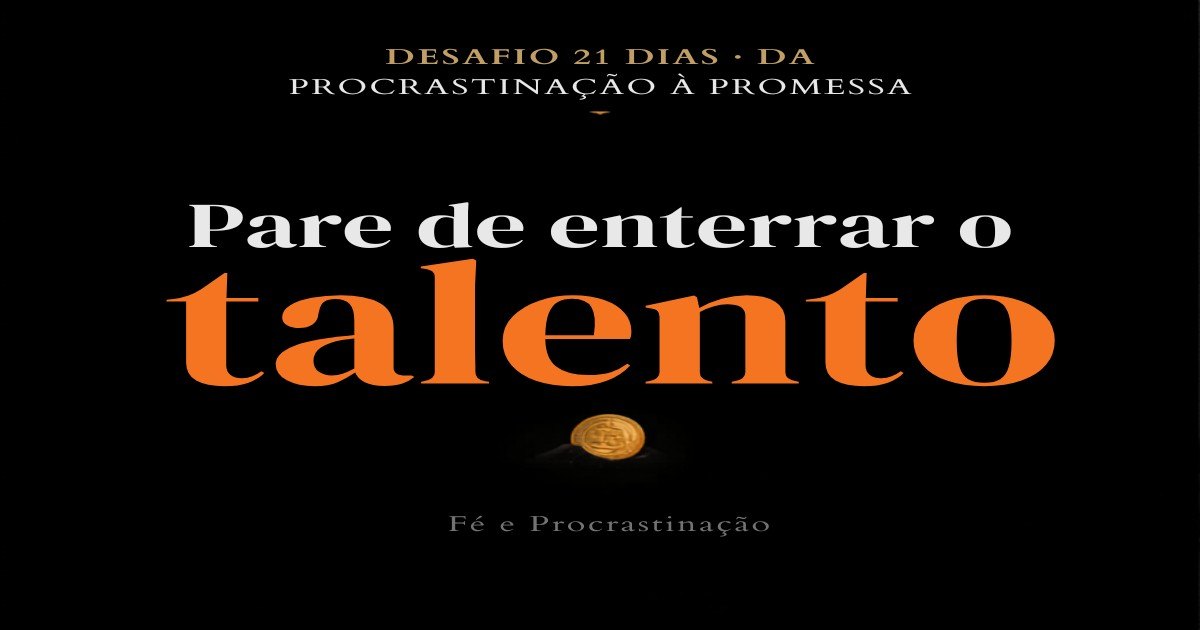
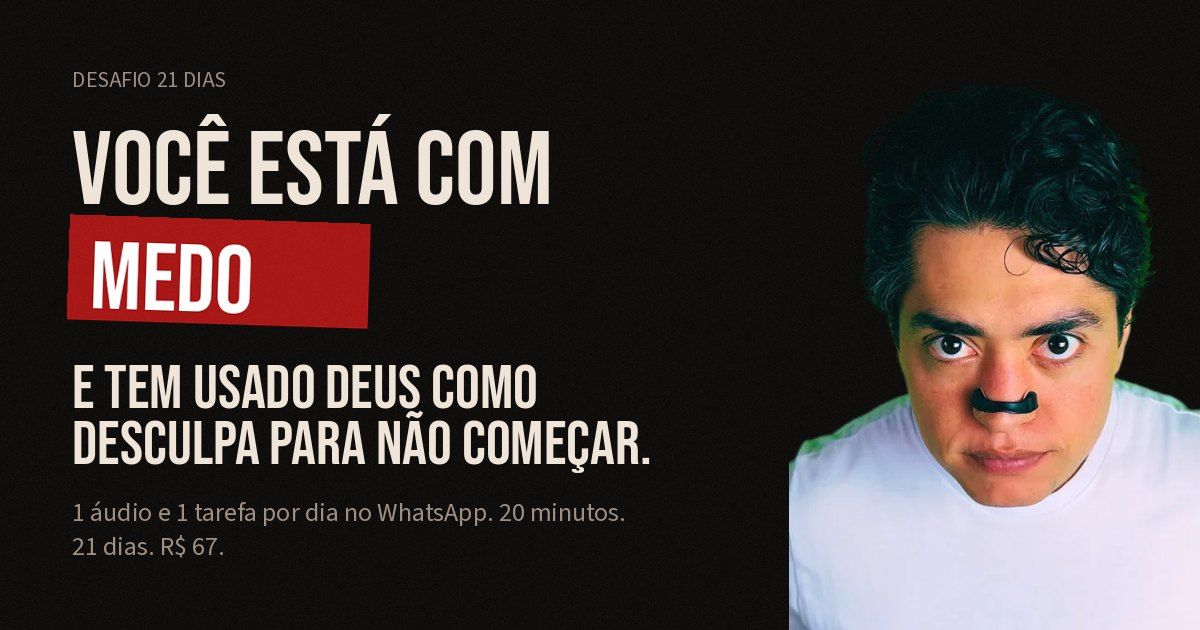
Assets, OG e modal: fecha as pendencias abertas
Alvo de deploy passa a ser v7 (escolha do Ewertton, pra casar com os 7 dias
de garantia). O .cpanel.yml e as tres URLs de OG acompanham.

Assets
- ewertton.webp substitui ewertton-preto.jpg: recorte 3:4 com alpha, 480x640,
  2 MB -> 33 KB. Some o fundo branco E o fundo vermelho da variante JPG, o que
  libera o canto reto da §6.2; o container vira 3:4, entao object-fit nao corta
- og-image.jpg refeita na identidade dark, com as fontes reais do site
  (Bebas Neue + Source Sans 3), grao 4,5% e carimbo --blood em "MEDO"

Corrige og:url, og:image e twitter:image, que estavam fixas em /v4/. Sem isso
o compartilhamento do v7 puxaria a arte da pasta do v4 e apontaria a URL
canonica pra versao errada, envenenando o teste A/B.

Modal
- consentimento LGPD: checkbox obrigatorio, unico gate do botao de submit.
  Erro de FORMATO continua explicando no clique em vez de travar: o checkbox e
  regra visivel logo acima do botao, "e-mail precisa de TLD" nao e
- focus trap: o Tab circulava pros links da pagina atras do veu. Fecha o ciclo
  e devolve o foco pro botao que abriu o modal
- botao desabilitado ganha opacidade e cursor de bloqueado

Limpeza
- remove CSS morto: .btn--invert e .mural-counter (zero elementos no HTML)
- card de bonus volta pra grade: o <svg> era filho do bloco de texto e ficava
  empilhado a 36px; agora e filho direto a 44px, igual aos outros quatro

Verificado no browser: trava/destrava/retrava, erros de formato aparecem, foco
circula e retorna, zero erro de console.

diff --git a/index.html b/index.html
@@ -17,13 +17,13 @@
   <meta property="og:title" content="Desafio 21 Dias: Da Procrastinação à Promessa">
   <meta property="og:description" content="1 áudio e 1 tarefa por dia no WhatsApp. 20 minutos. 21 dias. R$ 67.">
   <meta property="og:type" content="website">
-  <meta property="og:url" content="https://ebravoholding.com/pages/desafios/v4/">
-  <meta property="og:image" content="https://ebravoholding.com/pages/desafios/v4/og-image.jpg">
+  <meta property="og:url" content="https://ebravoholding.com/pages/desafios/v7/">
+  <meta property="og:image" content="https://ebravoholding.com/pages/desafios/v7/og-image.jpg">
   <meta property="og:image:width" content="1200">
   <meta property="og:image:height" content="630">
-  <meta property="og:image:alt" content="Desafio 21 Dias: Da Procrastinação à Promessa">
+  <meta property="og:image:alt" content="Você está com medo e tem usado Deus como desculpa para não começar. Desafio 21 Dias.">
   <meta name="twitter:card" content="summary_large_image">
-  <meta name="twitter:image" content="https://ebravoholding.com/pages/desafios/v4/og-image.jpg">
+  <meta name="twitter:image" content="https://ebravoholding.com/pages/desafios/v7/og-image.jpg">
   <!-- Favicon -->
   <link rel="icon" type="image/x-icon" href="favicon/favicon.ico">
   <link rel="icon" type="image/svg+xml" href="favicon/favicon.svg">
@@ -1105,16 +1105,15 @@
         </div>
 
         <div class="entregavel-card fade-up" style="transition-delay:0.25s">
+          <svg class="entregavel-icon" viewBox="0 0 44 44" fill="none" aria-hidden="true">
+            <circle cx="22" cy="22" r="22" style="fill:rgba(166,19,18,0.25)" />
+            <path d="M22 12c-1.66 0-3 1.34-3 3s1.34 3 3 3 3-1.34 3-3-1.34-3-3-3z"
+              style="stroke:var(--color-accent-tx)" stroke-width="2" />
+            <path d="M22 20c-4.42 0-8 1.79-8 4v2h16v-2c0-2.21-3.58-4-8-4z" style="stroke:var(--color-accent-tx)"
+              stroke-width="2" stroke-linecap="round" stroke-linejoin="round" />
+          </svg>
           <div>
-            <svg class="entregavel-icon" viewBox="0 0 44 44" fill="none" aria-hidden="true"
-              style="width:36px;height:36px;margin-bottom:0.5rem">
-              <circle cx="22" cy="22" r="22" style="fill:rgba(166,19,18,0.25)" />
-              <path d="M22 12c-1.66 0-3 1.34-3 3s1.34 3 3 3 3-1.34 3-3-1.34-3-3-3z"
-                style="stroke:var(--color-accent-tx)" stroke-width="2" />
-              <path d="M22 20c-4.42 0-8 1.79-8 4v2h16v-2c0-2.21-3.58-4-8-4z" style="stroke:var(--color-accent-tx)"
-                stroke-width="2" stroke-linecap="round" stroke-linejoin="round" />
-            </svg>
-            <!-- Selo movido pra dentro do bloco de texto: como filho direto do .entregavel-card
+            <!-- Selo dentro do bloco de texto: como filho direto do .entregavel-card
                  (display:flex) ele virava item de flex ao lado do ícone e quebrava em 3 linhas.
                  O CSS do .bonus-tag (inline-block + margin-bottom) já era escrito pra este lugar. -->
             <span class="bonus-tag">Bônus &middot; R$ 497</span>
@@ -1326,7 +1325,7 @@
       <div class="ewertton-inner">
         <div class="fade-up">
           <div class="ewertton-photo">
-            <img src="ewertton-preto.jpg" alt="Foto de Ewertton Bravo" width="220" height="220"
+            <img src="ewertton.webp" alt="Foto de Ewertton Bravo" width="220" height="293"
               style="width:100%;height:100%;object-fit:cover;display:block;">
           </div>
         </div>
@@ -1775,7 +1774,11 @@
           </div>
           <p class="lead-error" id="lead-phone-erro" role="alert" hidden></p>
         </div>
-        <button type="submit" class="btn btn--lg lead-modal__submit" id="lead-submit">
+        <div class="lead-consent">
+          <input type="checkbox" id="lead-consent" name="consent" />
+          <label for="lead-consent">Concordo em receber comunicações sobre o desafio por WhatsApp e e-mail.</label>
+        </div>
+        <button type="submit" class="btn btn--lg lead-modal__submit" id="lead-submit" disabled>
           Quero começar o desafio
         </button>
         <p class="lead-modal__hint">Seus dados ficam seguros. Sem spam.</p>
@@ -1796,8 +1799,18 @@
       var elPhone = document.getElementById('lead-phone');
       var elSubmit = document.getElementById('lead-submit');
       var elClose = document.getElementById('lead-modal-close');
+      var elConsent = document.getElementById('lead-consent');
       var checkoutHref = null;   // href já decorado com UTM+sck, guardado no clique
       var submitting = false;
+      var gatilho = null;        // elemento que abriu o modal, pra devolver o foco no fechamento
+      var CONSENT_TEXT = 'Concordo em receber comunicações sobre o desafio por WhatsApp e e-mail.';
+
+      // O consentimento LIBERA o botão; formato de campo NÃO trava o botão, acusa no clique.
+      // A diferença é proposital: o checkbox é uma regra visível logo acima do botão, então
+      // travar ali não deixa ninguém no escuro. Ja "e-mail precisa de TLD" e "nome precisa de
+      // sobrenome" sao regras invisiveis, e travar nelas foi o que fazia a pessoa sair sem saber.
+      function syncConsent() { elSubmit.disabled = !elConsent.checked; }
+      elConsent.addEventListener('change', syncConsent);
 
       function getCookie(name) {
         var m = document.cookie.match('(^|;)\\s*' + name + '\\s*=\\s*([^;]+)');
@@ -1848,9 +1861,11 @@
         });
       });
 
-      function openModal(href) {
+      function openModal(href, origem) {
         checkoutHref = href;
+        gatilho = origem || null;
         CAMPOS.forEach(limparErro);   // reabrir não herda a bronca da tentativa anterior
+        syncConsent();
         modal.classList.add('is-open');
         document.body.style.overflow = 'hidden';
         setTimeout(function () { elName.focus(); }, 50);
@@ -1858,14 +1873,31 @@
       function closeModal() {
         modal.classList.remove('is-open');
         document.body.style.overflow = '';
+        if (gatilho && gatilho.focus) gatilho.focus();   // foco volta pro botão que abriu
+        gatilho = null;
       }
+
+      // Focus trap: sem isto o Tab sai do último campo e vai passeando pelos links da
+      // página atrás do véu, que o usuário nem enxerga. aria-modal="true" informa, não prende.
+      modal.addEventListener('keydown', function (e) {
+        if (e.key !== 'Tab') return;
+        var focaveis = modal.querySelectorAll('a[href], button:not([disabled]), input:not([disabled]), select, textarea, [tabindex]:not([tabindex="-1"])');
+        if (!focaveis.length) return;
+        var primeiro = focaveis[0];
+        var ultimo = focaveis[focaveis.length - 1];
+        if (e.shiftKey && document.activeElement === primeiro) {
+          e.preventDefault(); ultimo.focus();
+        } else if (!e.shiftKey && document.activeElement === ultimo) {
+          e.preventDefault(); primeiro.focus();
+        }
+      });
 
       // Intercepta os botões de checkout (listener delegado; href já decorado pelo script de UTM/sck)
       document.addEventListener('click', function (e) {
         var a = e.target.closest && e.target.closest('a[href*="pay.hotmart"]');
         if (!a) return;
         e.preventDefault();
-        openModal(a.href);
+        openModal(a.href, a);
       });
 
       elClose.addEventListener('click', closeModal);
@@ -1928,6 +1960,7 @@
           sck: (function () { var m = (checkoutHref || '').match(/[?&]sck=([^&]+)/); return m ? decodeURIComponent(m[1]) : ''; })(),
           fbp: fbp, fbc: fbc,
           page_path: window.location.pathname,
+          consent: elConsent.checked, consent_text: CONSENT_TEXT,
           event_id: eventId,
           event_source_url: window.location.href
         };

diff --git a/style.css b/style.css
@@ -399,20 +399,6 @@
   border-radius: var(--radius-md);
 }
 
-.mural-counter {
-  text-align: center;
-  margin-top: 2.5rem;
-  font-size: 1.1rem;
-  color: var(--color-ink-mid);
-}
-
-.mural-counter strong {
-  font-family: var(--font-display);
-  font-size: 2rem;
-  letter-spacing: 0.02em;
-  color: var(--color-accent-tx);
-}
-
 .mural-hook {
   text-align: center;
   margin-top: 1.25rem;
@@ -704,15 +690,15 @@
 }
 
 .ewertton-photo {
+  /* 3:4, mesma proporção do asset: object-fit cover não corta nada.
+     Canto reto liberado (§6.2) agora que a foto é recorte com alpha, sem cantos brancos. */
   width: 220px;
-  height: 220px;
-  /* DESVIO CONSCIENTE da §6.2 (canto reto), pendente de asset.
-     `ewertton-preto.jpg` é 256x256 com recorte circular sobre fundo BRANCO: não existe
-     conteúdo nos cantos. Com canto reto os 4 cantos brancos aparecem sobre o escuro.
-     Volta a circular até chegar foto retangular sem máscara (ver PENDÊNCIAS no CLAUDE.md). */
-  border-radius: 50%;
+  height: 293px;
+  border-radius: var(--radius-md);
   overflow: hidden;
-  background: var(--color-bg);
+  /* --void, mais escuro que o --pitch da seção: a transparência do recorte deixa
+     esse fundo aparecer, então ele vira o campo do retrato. */
+  background: var(--void);
   border: 3px solid var(--iron);
   display: flex;
   align-items: center;
@@ -903,16 +889,6 @@
   margin-bottom: 2rem;
   max-width: 520px;
   margin-inline: auto;
-}
-
-.btn--invert {
-  background: white;
-  color: var(--color-accent);
-}
-
-.btn--invert:hover {
-  background: rgba(255, 255, 255, 0.92);
-  box-shadow: 0 8px 24px rgba(0, 0, 0, 0.5);
 }
 
 .trust-row--light {
@@ -1143,6 +1119,37 @@ footer {
 
 .lead-error[hidden] {
   display: none;
+}
+
+/* Consentimento: libera o botão de submit. Área de toque do label inteira, não só a caixa. */
+.lead-consent {
+  display: flex;
+  align-items: flex-start;
+  gap: 0.6rem;
+  margin: 0.9rem 0 0.25rem;
+}
+
+.lead-consent input[type="checkbox"] {
+  flex-shrink: 0;
+  width: 22px;
+  height: 22px;
+  margin: 0;
+  accent-color: var(--blood, #A61312);
+  cursor: pointer;
+}
+
+.lead-consent label {
+  font-size: 0.82rem;
+  line-height: 1.4;
+  color: var(--color-ink-mid);
+  cursor: pointer;
+}
+
+/* Botão travado tem que PARECER travado, senão o clique morto vira o mesmo
+   atrito silencioso que a validação por texto veio resolver. */
+.lead-modal__submit:disabled {
+  cursor: not-allowed;
+  opacity: 0.55;
 }
 
 .lead-phone {
